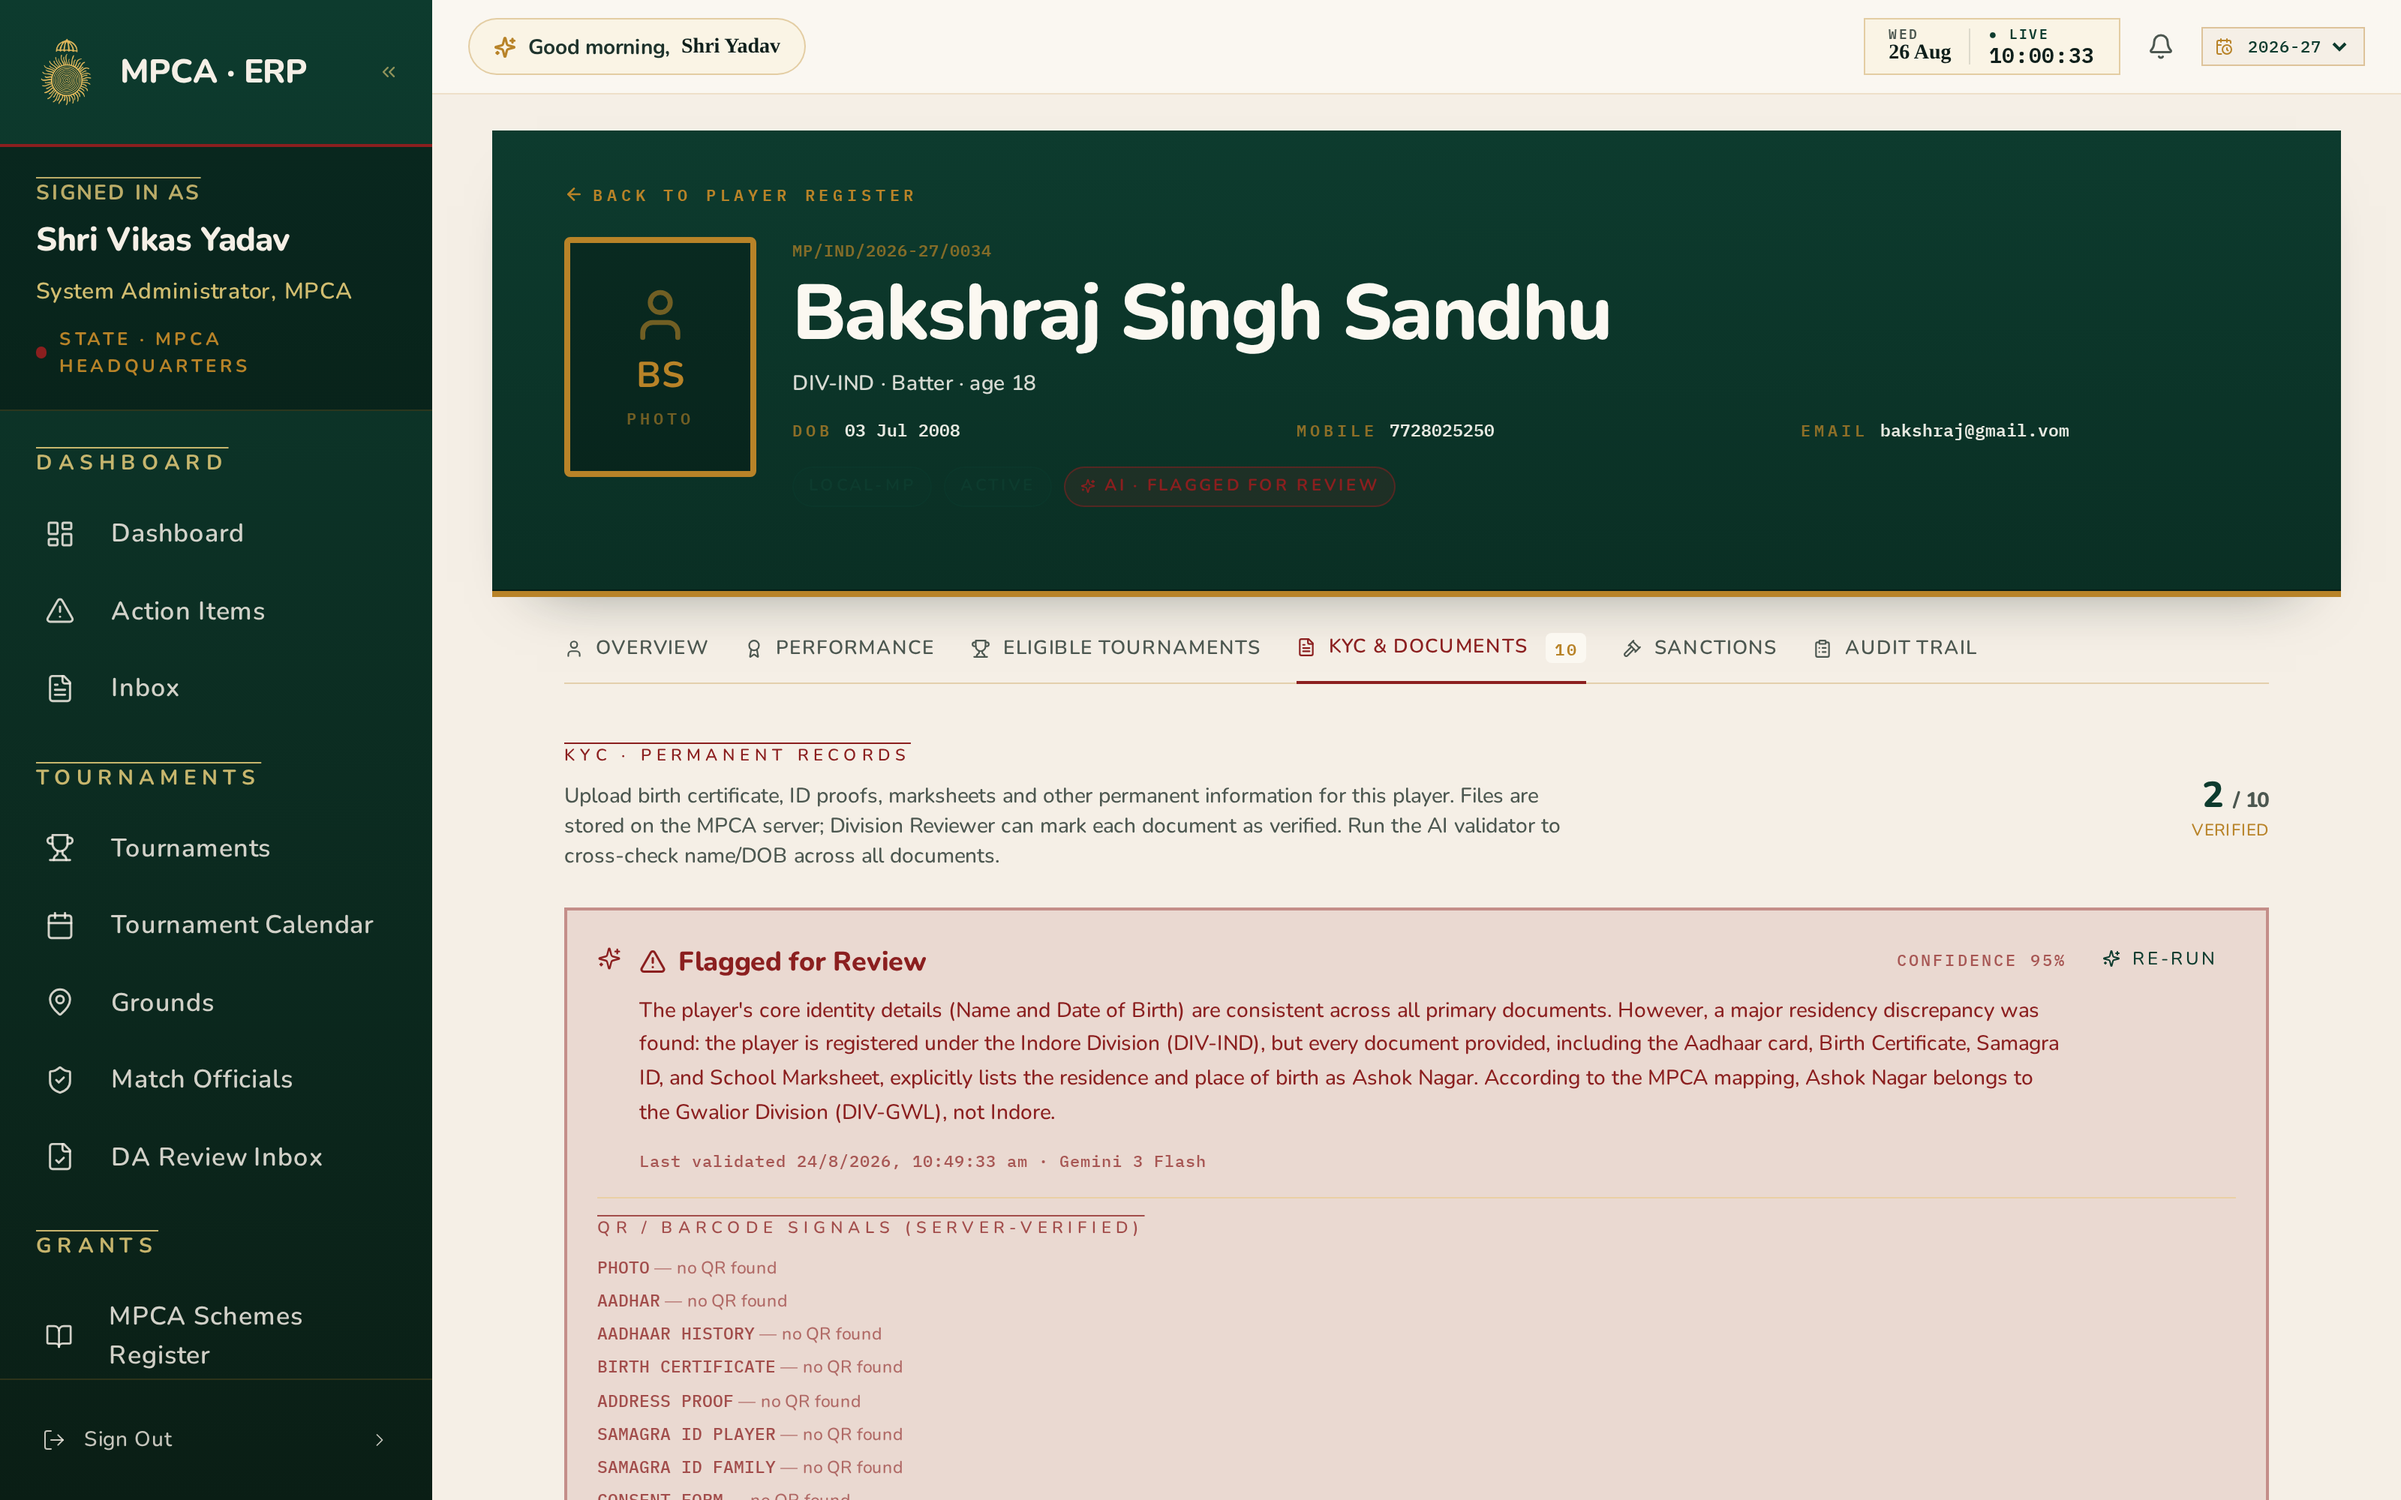
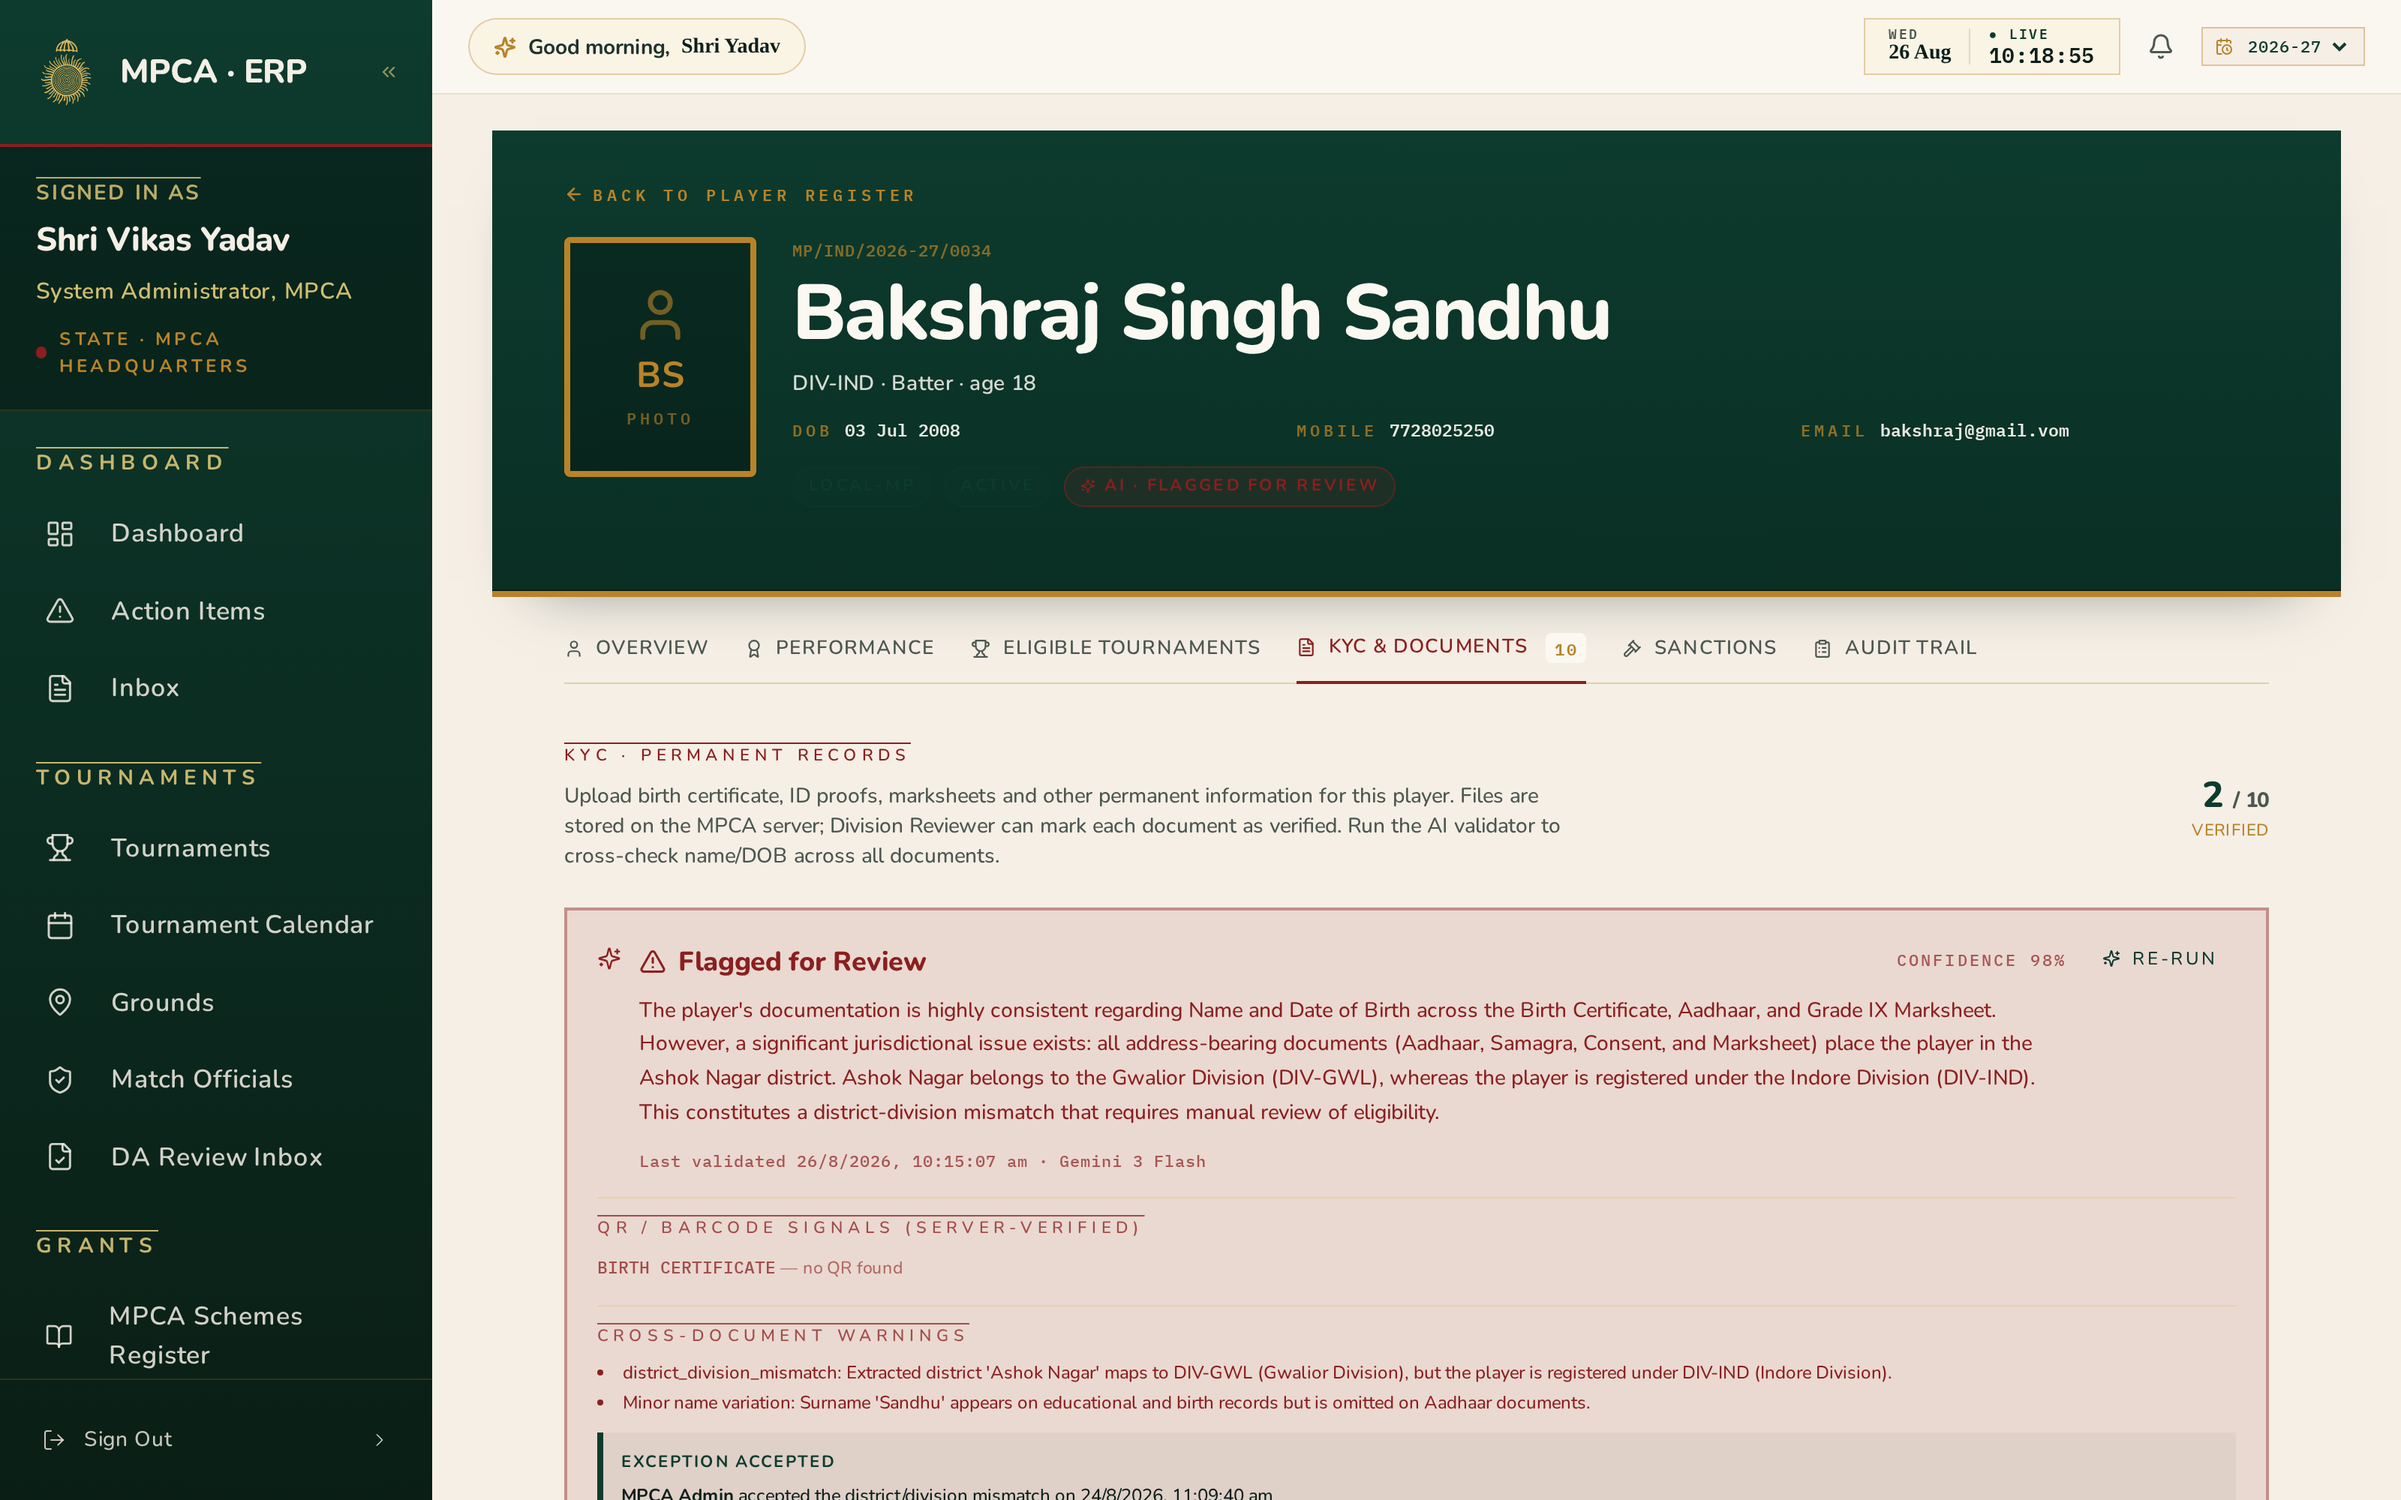
## Deck Polish — Slide 1 Cleaned, Slide 5 Refreshed
- **Killed the scrollbar on slide 1's login iframe** — same-origin `onLoad` handler injects `overflow: hidden` on `body/html` and a `::-webkit-scrollbar { display: none }` style into the iframe document, plus `scrolling="no"`. The login now renders as a clean product shot with no browser chrome bleeding through.
- **Slide 1 polished for a stakeholder-grade opener** — added editorial gold corner marks at all four corners, tightened the eyebrow to `— MPCA · ERP —` with hairline flanks, a subtler tagline "*Built for MPCA · Divisions · Players*", softer/larger drop shadow + a gold inner vignette on the iframe frame so it reads as a hero, not a viewer.
- **Slide 5 (Player screenshot) re-captured** now that QR is scoped to Birth Certificate only. The "QR / Barcode Signals" block shows just one row: `BIRTH CERTIFICATE — no QR found`. No more Photo/Aadhaar/Samagra "no QR" clutter. Verified end-to-end at 1920×1080.

- Next Action Items:
  - **Speaker Notes**: Add a hidden "N" key that opens a bottom-left drawer with what to say and which words to emphasise on each slide
  - **PDF Export**: Print `/launch-presentation` to a shareable PDF so committee members can review the deck offline
  - **Player Journey Reel**: Record a 20-second phone-screen clip of a real player uploading docs and receiving the AI verdict, and drop it into slide 3 for a live feel
  - **Auto-advance Mode**: Add a "P" key that starts a 20-second-per-slide auto-play, for kiosk display in the MPCA lobby

diff --git a/frontend/src/pages/LaunchPresentation.jsx b/frontend/src/pages/LaunchPresentation.jsx
@@ -23,35 +23,110 @@ const paper     = DL.paper;
 // ═════════════════════════════════════════════════════════════════════
 // Slide 1 · Live login (iframe · fire signals animate live)
 // ═════════════════════════════════════════════════════════════════════
-const SlideLive = () => (
-    <div className="w-full h-full flex flex-col items-center justify-center px-6 md:px-16">
-        <div className="mb-3" style={{ fontFamily: DL.fontMono, fontSize: 12, letterSpacing: "0.34em", color: gold, fontWeight: 700 }}>
-            MPCA · ERP
-        </div>
-        <h1 className="text-center mb-8" style={{
-            fontFamily: DL.fontDisplay, fontWeight: 800,
-            fontSize: "clamp(48px, 6vw, 88px)", lineHeight: 1, letterSpacing: "-0.02em", color: paper,
-        }}>
-            One platform. <span style={{ color: gold }}>Every workflow.</span>
-        </h1>
+const SlideLive = () => {
+    // Same-origin iframe → hide the login page's own scrollbar so the
+    // frame looks like a clean product shot, not a browser inside a browser.
+    const hideIframeScrollbar = (e) => {
+        try {
+            const doc = e.target.contentDocument;
+            if (doc) {
+                if (doc.body) doc.body.style.overflow = "hidden";
+                if (doc.documentElement) doc.documentElement.style.overflow = "hidden";
+                // WebKit scrollbar suppression
+                const style = doc.createElement("style");
+                style.textContent = `::-webkit-scrollbar{display:none!important;width:0!important;height:0!important;}html,body{scrollbar-width:none!important;-ms-overflow-style:none!important;}`;
+                doc.head?.appendChild(style);
+            }
+        } catch { /* cross-origin — ignore */ }
+    };
 
-        {/* Live iframe · shows the actual login page with fire signals animating */}
-        <div className="w-full max-w-[1200px]" style={{
-            borderRadius: 10, overflow: "hidden",
-            boxShadow: "0 30px 80px -20px rgba(0,0,0,0.7)",
-            border: `1px solid rgba(184,131,40,0.35)`,
-            aspectRatio: "16/9", background: "#0b1d18",
-        }}>
-            <iframe
-                src="/login"
-                title="MPCA ERP Login"
-                data-testid="login-live-iframe"
-                style={{ width: "100%", height: "100%", border: 0, display: "block" }}
-                loading="eager"
-            />
+    return (
+        <div className="w-full h-full flex flex-col items-center justify-center px-6 md:px-16 relative">
+            {/* Corner marks — subtle brand crop, gives an editorial edge */}
+            <CornerMarks />
+
+            <div className="mb-4 flex items-center gap-3" style={{
+                fontFamily: DL.fontMono, fontSize: 12, letterSpacing: "0.34em",
+                color: gold, fontWeight: 700, textTransform: "uppercase",
+            }}>
+                <span style={{ width: 28, height: 1, background: gold, opacity: 0.7 }} />
+                MPCA · ERP
+                <span style={{ width: 28, height: 1, background: gold, opacity: 0.7 }} />
+            </div>
+
+            <h1 className="text-center mb-3" style={{
+                fontFamily: DL.fontDisplay, fontWeight: 800,
+                fontSize: "clamp(48px, 6.2vw, 92px)", lineHeight: 1,
+                letterSpacing: "-0.02em", color: paper,
+            }}>
+                One platform. <span style={{ color: gold }}>Every workflow.</span>
+            </h1>
+
+            <p className="text-center mb-9 max-w-2xl" style={{
+                fontFamily: DL.fontBody, fontStyle: "italic",
+                fontSize: "clamp(16px, 1.35vw, 20px)",
+                color: "rgba(245,239,230,0.62)",
+            }}>
+                Built for MPCA · Divisions · Players
+            </p>
+
+            {/* Live iframe — no scrollbar, no chrome, just the login page. */}
+            <div style={{
+                width: "min(78vw, 1180px)",
+                aspectRatio: "16/9",
+                borderRadius: 12, overflow: "hidden",
+                background: "#0b1d18",
+                boxShadow: "0 40px 90px -25px rgba(0,0,0,0.75), 0 12px 28px -10px rgba(0,0,0,0.5), 0 0 0 1px rgba(184,131,40,0.22)",
+                position: "relative",
+            }}>
+                <iframe
+                    src="/login"
+                    title="MPCA ERP Login"
+                    data-testid="login-live-iframe"
+                    scrolling="no"
+                    onLoad={hideIframeScrollbar}
+                    style={{ width: "100%", height: "100%", border: 0, display: "block" }}
+                    loading="eager"
+                />
+                {/* Soft gold vignette on top so any residual browser edge blends with the deck */}
+                <div style={{
+                    position: "absolute", inset: 0, pointerEvents: "none",
+                    boxShadow: `inset 0 0 90px rgba(184,131,40,0.10)`,
+                }} />
+            </div>
         </div>
-    </div>
-);
+    );
+};
+
+// Editorial corner marks — thin gold brackets at the four corners of the slide.
+const CornerMarks = () => {
+    const size = 34, thick = 2, colour = gold, off = 30;
+    const arm = { position: "absolute", background: colour, opacity: 0.55 };
+    return (
+        <>
+            {/* Top-left */}
+            <div style={{ position: "absolute", top: off, left: off, width: size, height: size, pointerEvents: "none" }}>
+                <div style={{ ...arm, top: 0, left: 0, width: size, height: thick }} />
+                <div style={{ ...arm, top: 0, left: 0, width: thick, height: size }} />
+            </div>
+            {/* Top-right */}
+            <div style={{ position: "absolute", top: off, right: off, width: size, height: size, pointerEvents: "none" }}>
+                <div style={{ ...arm, top: 0, right: 0, width: size, height: thick }} />
+                <div style={{ ...arm, top: 0, right: 0, width: thick, height: size }} />
+            </div>
+            {/* Bottom-left */}
+            <div style={{ position: "absolute", bottom: off, left: off, width: size, height: size, pointerEvents: "none" }}>
+                <div style={{ ...arm, bottom: 0, left: 0, width: size, height: thick }} />
+                <div style={{ ...arm, bottom: 0, left: 0, width: thick, height: size }} />
+            </div>
+            {/* Bottom-right */}
+            <div style={{ position: "absolute", bottom: off, right: off, width: size, height: size, pointerEvents: "none" }}>
+                <div style={{ ...arm, bottom: 0, right: 0, width: size, height: thick }} />
+                <div style={{ ...arm, bottom: 0, right: 0, width: thick, height: size }} />
+            </div>
+        </>
+    );
+};
 
 // ═════════════════════════════════════════════════════════════════════
 // Caption slides — bold, single-message, auditorium-first
